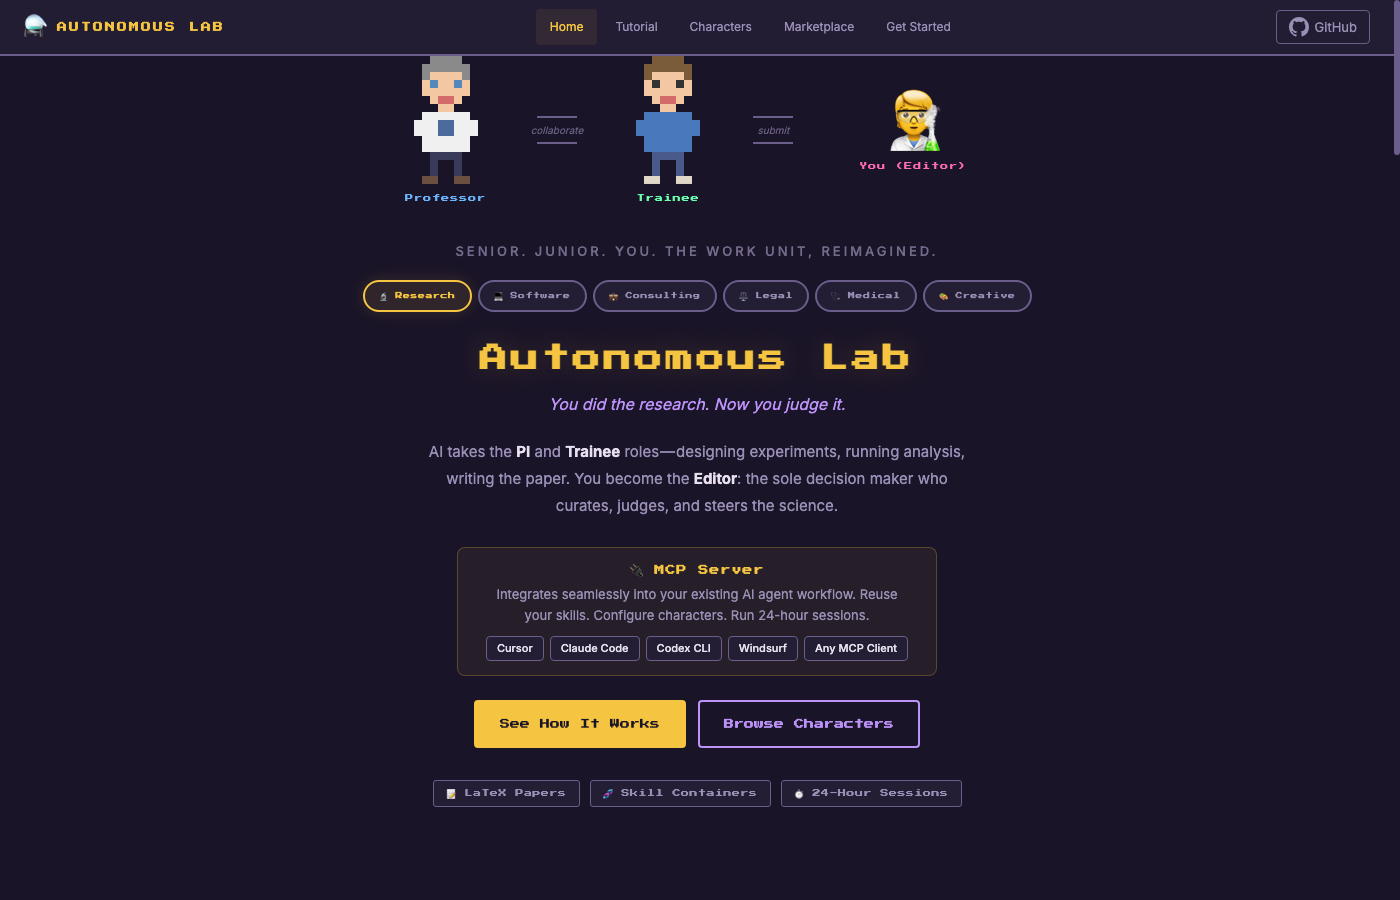
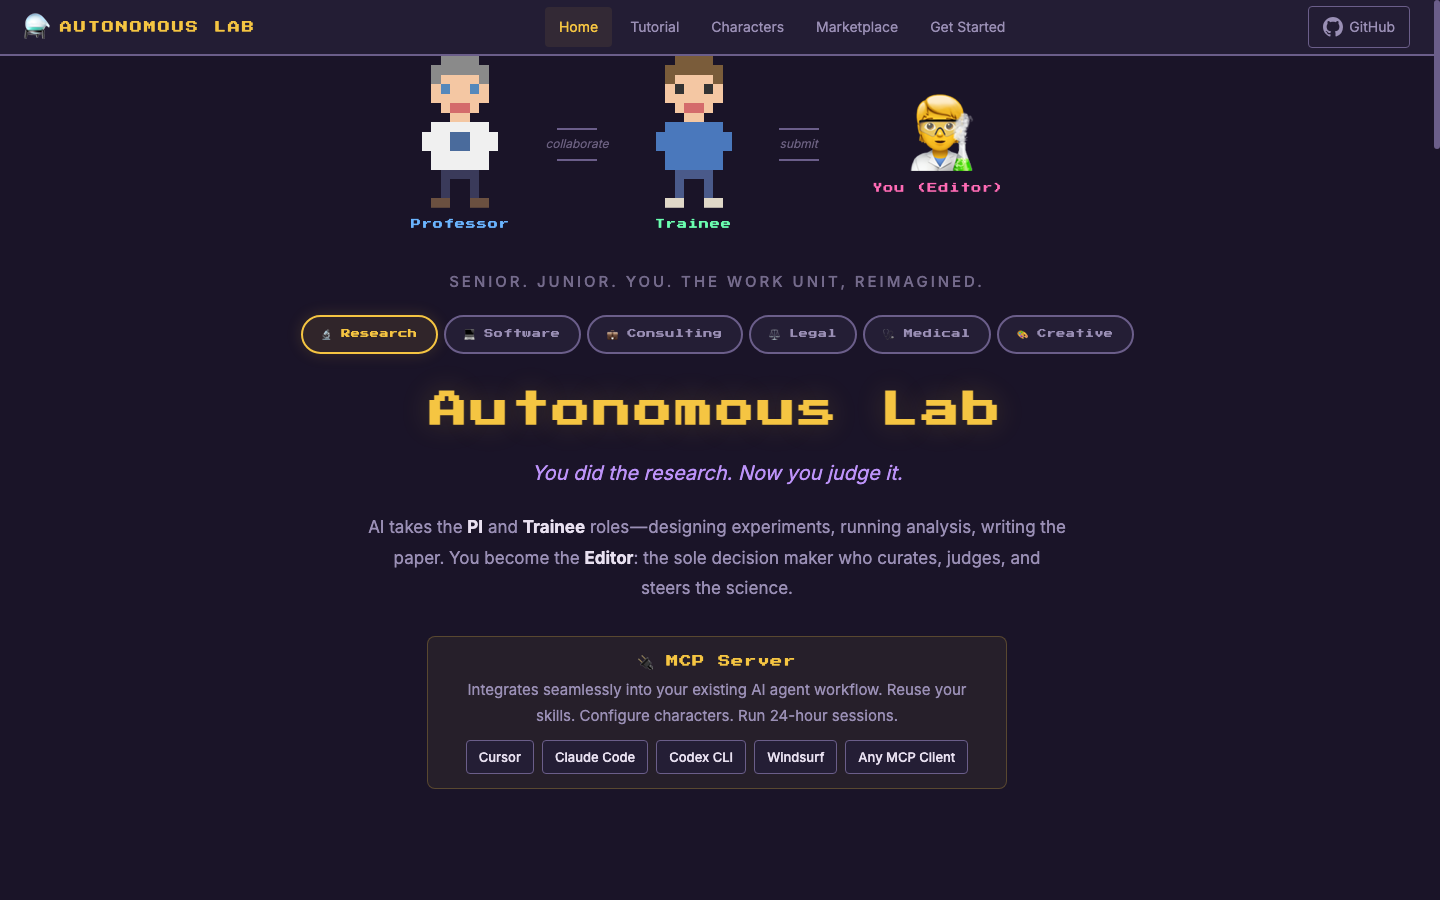
Add vision section, mention Claude Code, enlarge website UI
README:
- Add Vision section drawing from the paper: the scientist becomes
  the editor, judgment scales, not displacement but reorganization
- Mention Claude Code explicitly in install instructions
- Reframe "Why this exists" around reusing existing subscriptions

Website:
- Enlarge all font sizes, max-widths, and spacing site-wide
- Hero title 28px → 38px, body 15px → 17px, section titles 16px → 22px
- Larger sprites, pills, buttons, MCP banner, badges
- Fix footer license: MIT → Apache 2.0
- Updated screenshot reflecting new sizing

diff --git a/docs/css/style.css b/docs/css/style.css
@@ -46,8 +46,8 @@ body {
     font-family: 'Inter', -apple-system, BlinkMacSystemFont, sans-serif;
     background: var(--bg-dark);
     color: var(--text);
-    font-size: 15px;
-    line-height: 1.6;
+    font-size: 17px;
+    line-height: 1.7;
     overflow-x: hidden;
 }
 
@@ -95,12 +95,12 @@ code {
 }
 
 .nav-left { display: flex; align-items: center; gap: 10px; }
-.nav-icon { font-size: 22px; }
-.nav-title { font-size: 10px; color: var(--gold); letter-spacing: 2px; }
+.nav-icon { font-size: 26px; }
+.nav-title { font-size: 12px; color: var(--gold); letter-spacing: 2px; }
 
 .nav-links { display: flex; gap: 4px; }
 .nav-link {
-    font-size: 12px;
+    font-size: 14px;
     color: var(--text-dim);
     padding: 8px 14px;
     border-radius: 4px;
@@ -115,9 +115,9 @@ code {
     display: flex;
     align-items: center;
     gap: 6px;
-    font-size: 13px;
+    font-size: 14px;
     color: var(--text-dim);
-    padding: 6px 12px;
+    padding: 8px 14px;
     border: 1px solid var(--border);
     border-radius: 4px;
     transition: all 0.2s;
@@ -130,24 +130,24 @@ code {
 .section {
     min-height: 100vh;
     padding: 80px 48px 60px;
-    max-width: 1200px;
+    max-width: 1400px;
     margin: 0 auto;
 }
 
 .section-header {
     text-align: center;
-    margin-bottom: 48px;
+    margin-bottom: 56px;
 }
 .section-title {
-    font-size: 16px;
+    font-size: 22px;
     color: var(--gold);
     letter-spacing: 2px;
-    margin-bottom: 12px;
+    margin-bottom: 14px;
 }
 .section-subtitle {
-    font-size: 15px;
+    font-size: 17px;
     color: var(--text-dim);
-    max-width: 500px;
+    max-width: 650px;
     margin: 0 auto;
 }
 
@@ -163,7 +163,7 @@ code {
     padding-top: 56px;
 }
 
-.hero-content { max-width: 720px; }
+.hero-content { max-width: 880px; }
 
 .hero-sprites {
     display: flex;
@@ -186,14 +186,14 @@ code {
 .hero-char canvas {
     image-rendering: pixelated;
     image-rendering: crisp-edges;
-    width: 80px;
-    height: 128px;
+    width: 96px;
+    height: 152px;
     animation: hero-bob 3s ease-in-out infinite;
 }
-.hero-you-icon { font-size: 64px; line-height: 1; }
+.hero-you-icon { font-size: 80px; line-height: 1; }
 .hero-char-label {
     font-family: 'Press Start 2P', monospace;
-    font-size: 8px;
+    font-size: 10px;
     letter-spacing: 1px;
     white-space: nowrap;        /* Prevent wrapping during rotation */
 }
@@ -218,41 +218,41 @@ code {
     background: var(--border);
 }
 .arrow-label {
-    font-size: 10px;
+    font-size: 12px;
     color: var(--text-muted);
     font-style: italic;
 }
 
 .hero-kicker {
     font-family: 'Inter', sans-serif;
-    font-size: 13px;
+    font-size: 15px;
     font-weight: 500;
     letter-spacing: 3px;
     text-transform: uppercase;
     color: var(--text-dim);
-    margin-bottom: 18px;
+    margin-bottom: 20px;
     opacity: 0.7;
 }
 .hero-title {
-    font-size: 28px;
+    font-size: 38px;
     color: var(--gold);
     letter-spacing: 3px;
-    margin-bottom: 12px;
+    margin-bottom: 14px;
     text-shadow: 0 0 30px rgba(245, 197, 66, 0.2);
 }
 .hero-subtitle {
-    font-size: 16px;
+    font-size: 20px;
     color: var(--accent);
-    margin-bottom: 20px;
+    margin-bottom: 22px;
     font-style: italic;
     min-height: 1.4em;          /* Prevent vertical jump during rotation */
 }
 .hero-description {
-    font-size: 15px;
+    font-size: 17px;
     color: var(--text-dim);
     line-height: 1.8;
-    max-width: 560px;
-    margin: 0 auto 28px;
+    max-width: 700px;
+    margin: 0 auto 32px;
     min-height: 5.4em;          /* Prevent vertical jump during rotation */
 }
 .hero-description strong { color: var(--text); }
@@ -267,8 +267,8 @@ code {
 }
 .domain-pill {
     font-family: 'Press Start 2P', monospace;
-    font-size: 7px;
-    padding: 8px 14px;
+    font-size: 9px;
+    padding: 10px 18px;
     background: var(--bg-panel);
     color: var(--text-dim);
     border: 2px solid var(--border);
@@ -319,30 +319,30 @@ code {
     background: rgba(245, 197, 66, 0.06);
     border: 1px solid rgba(245, 197, 66, 0.25);
     border-radius: 8px;
-    max-width: 480px;
+    max-width: 580px;
     margin-left: auto;
     margin-right: auto;
 }
 .mcp-label {
     font-family: 'Press Start 2P', monospace;
-    font-size: 10px;
+    font-size: 12px;
     color: var(--gold);
     letter-spacing: 1px;
 }
 .mcp-desc {
-    font-size: 13px;
+    font-size: 15px;
     color: var(--text-dim);
 }
 .mcp-tools {
     display: flex;
-    gap: 6px;
+    gap: 8px;
     flex-wrap: wrap;
     justify-content: center;
-    margin-top: 4px;
+    margin-top: 6px;
 }
 .mcp-tool {
-    font-size: 11px;
-    padding: 3px 10px;
+    font-size: 13px;
+    padding: 5px 12px;
     background: var(--bg-panel);
     color: var(--text);
     border: 1px solid var(--border);
@@ -359,8 +359,8 @@ code {
 
 .btn-primary, .btn-secondary {
     font-family: 'Press Start 2P', monospace;
-    font-size: 10px;
-    padding: 14px 24px;
+    font-size: 12px;
+    padding: 16px 28px;
     border-radius: 4px;
     cursor: pointer;
     transition: all 0.2s;
@@ -398,11 +398,11 @@ code {
     flex-wrap: wrap;
 }
 .badge {
-    font-size: 8px;
+    font-size: 10px;
     color: var(--text-dim);
     background: var(--bg-panel);
     border: 1px solid var(--border);
-    padding: 6px 12px;
+    padding: 8px 14px;
     border-radius: 3px;
     letter-spacing: 0.5px;
 }
@@ -416,7 +416,7 @@ code {
     border-radius: 8px;
     overflow: hidden;
     box-shadow: 0 8px 40px rgba(0, 0, 0, 0.5), 0 0 20px rgba(107, 94, 138, 0.1);
-    max-width: 1100px;
+    max-width: 1300px;
     margin: 0 auto;
     position: relative;
     z-index: 2;
@@ -1069,14 +1069,14 @@ code {
 }
 .char-explainer-name {
     font-family: 'Press Start 2P', monospace;
-    font-size: 8px;
+    font-size: 10px;
     color: var(--pi-color);
-    margin-bottom: 4px;
+    margin-bottom: 6px;
 }
 .char-explainer-title {
-    font-size: 11px;
+    font-size: 13px;
     color: var(--text-dim);
-    margin-bottom: 10px;
+    margin-bottom: 12px;
 }
 .char-explainer-skills {
     display: flex;
@@ -1137,9 +1137,9 @@ code {
 .yaml-val { color: var(--trainee-color); }
 
 .char-explainer-text h3 {
-    font-size: 11px;
+    font-size: 14px;
     color: var(--gold);
-    margin-bottom: 20px;
+    margin-bottom: 22px;
     letter-spacing: 1px;
 }
 
@@ -1165,14 +1165,14 @@ code {
 }
 .explainer-step strong {
     display: block;
-    font-size: 14px;
+    font-size: 16px;
     color: var(--text);
     margin-bottom: 4px;
 }
 .explainer-step p {
-    font-size: 13px;
+    font-size: 15px;
     color: var(--text-dim);
-    line-height: 1.6;
+    line-height: 1.7;
 }
 
 /* ============================================================
@@ -1553,23 +1553,23 @@ code {
     border-radius: 4px;
 }
 .gs-card h3 {
-    font-size: 10px;
+    font-size: 13px;
     color: var(--text);
-    margin-bottom: 8px;
+    margin-bottom: 10px;
     letter-spacing: 1px;
 }
 .gs-card p {
-    font-size: 13px;
+    font-size: 15px;
     color: var(--text-dim);
-    margin-bottom: 12px;
+    margin-bottom: 14px;
 }
 .gs-code {
     background: var(--bg-dark);
     border: 1px solid var(--border);
     border-radius: 6px;
-    padding: 12px;
+    padding: 14px;
     font-family: 'JetBrains Mono', 'Fira Code', monospace;
-    font-size: 11px;
+    font-size: 12px;
     line-height: 1.6;
     overflow-x: auto;
     color: var(--text-dim);

diff --git a/docs/index.html b/docs/index.html
@@ -661,7 +661,7 @@ autolab_editorial <span class="code-comment"># You decide!</span>
                 <a href="#marketplace">Marketplace</a>
             </div>
             <div class="footer-right">
-                <span class="footer-license">MIT License</span>
+                <span class="footer-license">Apache 2.0 License</span>
             </div>
         </div>
     </footer>

diff --git a/README.md b/README.md
@@ -6,25 +6,31 @@
 
 MCP server that turns any senior-junior workflow into an autonomous loop. AI handles the execution. You make the decisions.
 
-The server runs inside your existing agentic coding tool (Cursor, Claude Code, Codex CLI, Windsurf, or any MCP client). Your SKILL.md files become character configurations. The loop runs for hours without stopping. You step in as editor when the work is ready for judgment.
-
 <p align="center">
   <a href="https://autolab.kejunying.com">
     <img src="docs/screenshot.png" alt="Autonomous Lab" width="700">
   </a>
 </p>
 
+## Vision
+
+The bottleneck in knowledge work has never been execution. It is judgment -- knowing which questions matter, which results are meaningful, which directions to pursue. The people best equipped to make those calls spend most of their time on tasks that don't require their specific expertise.
+
+Autonomous Lab shifts the hierarchy up by one level. AI agents assume the working roles -- principal investigator and trainee, tech lead and developer, attending and resident -- running the full design-execute-review loop. The human moves into the editorial position: the one who curates, judges, and steers. Your taste and judgment, rather than your labor, become the primary input.
+
+This is not a copilot. It is a reorganization of the work unit itself.
+
 ## Why this exists
 
-Autonomous Lab is an MCP server. It runs inside the coding agent you already pay for. That means:
+Autonomous Lab is an MCP server. It runs inside the coding agent you already pay for -- Cursor, Claude Code, Windsurf, Codex CLI, or any MCP-compatible client. That means:
 
 - **No API key required.** You don't need an OpenAI/Anthropic/Google key. The intelligence comes from whichever model your coding tool already uses.
-- **No extra cost.** Your existing Cursor Pro, Claude Max, Windsurf, or Codex subscription is all you need.
+- **No extra cost.** Your existing Cursor Pro, Claude Max, Windsurf, or Codex subscription is all you need. You are reusing an investment you have already made.
 - **No new app to learn.** It plugs into your current workflow as a set of MCP tools.
 
 ## Install
 
-The easiest way: paste this README link into your coding agent (Claude Code, Cursor, Codex CLI) and ask it to install Autonomous Lab for you. It will handle everything.
+The easiest way: copy this page link into **Claude Code**, Cursor, or any coding agent and ask it to install Autonomous Lab for you. It will handle everything.
 
 Or do it manually:
 
